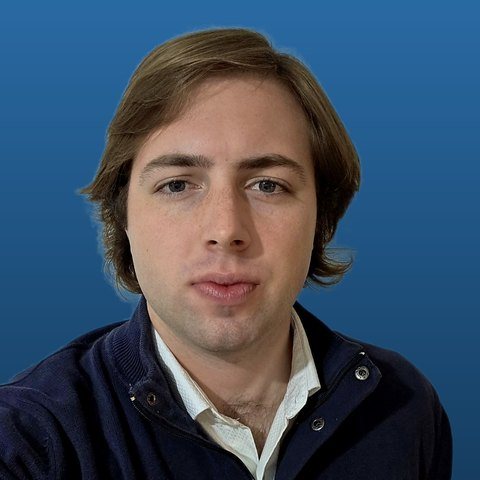
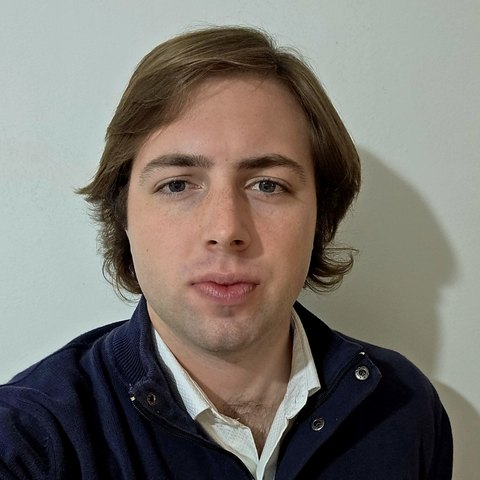
Sobre Macro AR: foto original, sin fondo azul
Claude-Session: https://claude.ai/code/session_01LSqadHyRk8gn2vCRXxYck9

diff --git a/CLAUDE.md b/CLAUDE.md
@@ -265,7 +265,7 @@ Al arrancar una sesión nueva, mostrale lo que falta de este menú en criollo y 
   Club; NO mencionar el negocio familiar ni IG/X por ahora), por qué hizo Macro AR, para
   quién es, "lo que me mueve", cómo funciona, fuentes y aclaraciones. Contacto: LinkedIn
   www.linkedin.com/in/francisco-epherra-8509513b4 y epherrafrancisco@gmail.com (eventos
-  `contacto-linkedin|mail`). Foto: `foto.jpg` (480x480, fondo recortado con rembg modelo isnet-general-use y degradé azul de la marca #2a6aa3→#163d60). Título: solo "Francisco Epherra".
+  `contacto-linkedin|mail`). Foto: `foto.jpg` (480x480, la foto original sin retocar; Francisco no quiso el fondo azul). Título: solo "Francisco Epherra".
 - El dominio (F) queda para después.
 
 ## Otras cosas del proyecto
